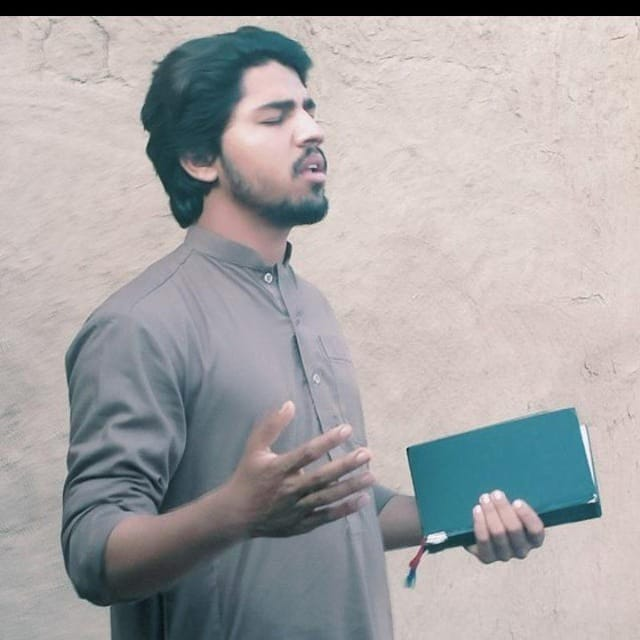
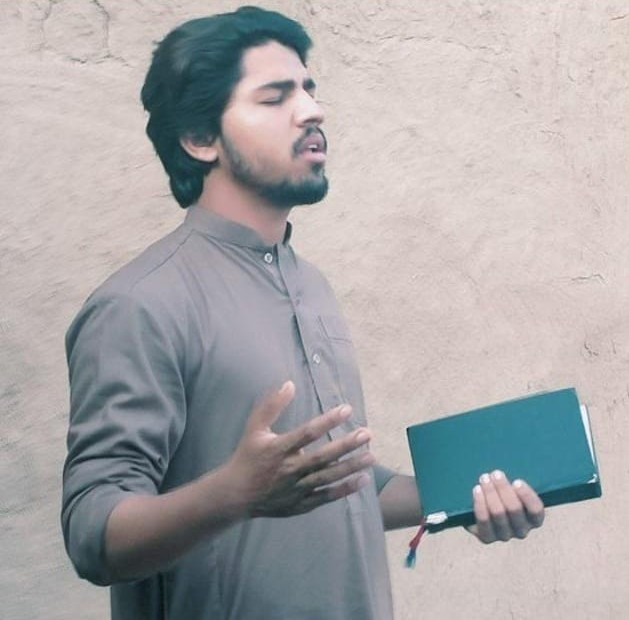
Update project and founder photos

diff --git a/projects/project-page.js b/projects/project-page.js
@@ -9,13 +9,13 @@ const projects={
   'religious-leader-support':{number:'08',title:'Support for Deserving Religious Leader',tagline:'Honouring community service through discreet and practical welfare support.',image:'../assets/projects-5-8.png',position:'100% 100%',intro:'Religious leaders often serve their communities with limited personal income. Where genuine need exists, we provide practical assistance with care and discretion.',body:'Support may include groceries, healthcare assistance and essential household needs. The programme is based on financial need and community service, and assistance is provided without political or sectarian discrimination.',focus:['Monthly grocery assistance','Healthcare support','Essential household needs','Respectful, needs-based assessment'],quote:'Those who support their communities should not be left alone in times of hardship.'}
 };
 const originalProjectPhotos={
-  'brick-kiln-workers':'../assets/photos/field-01.jpg',
+  'brick-kiln-workers':'../assets/project-photos/brick-kiln-workers.jpg',
   'free-medical-camps':'../assets/project-photos/medical-camp.jpg',
   'clean-water':'../assets/project-photos/clean-water.jpg',
   'education-scholarships':'../assets/project-photos/education.jpg',
   'orphans-widows-support':'../assets/project-photos/widows.jpg',
   'women-empowerment':'../assets/photos/field-02.jpg',
-  'marriage-support':'../assets/photos/field-05.jpg',
+  'marriage-support':'../assets/project-photos/marriage-support.jpg',
   'religious-leader-support':'../assets/project-photos/religious-leader.jpg'
 };
 Object.entries(originalProjectPhotos).forEach(([projectKey,image])=>{projects[projectKey].image=image;projects[projectKey].position='center'});

diff --git a/styles.css b/styles.css
@@ -288,11 +288,11 @@ a:focus-visible,button:focus-visible,input:focus-visible{outline:3px solid #ffd5
 .hero{background-image:linear-gradient(90deg,rgba(2,22,38,.84) 0%,rgba(3,30,50,.48) 55%,rgba(3,25,43,.22)),url("assets/photos/field-11.jpg");background-position:center 40%}
 .about:before{background-image:url("assets/photos/field-01.jpg");background-position:center}
 .projects-grid .impact-card{background-size:cover;background-position:center}
-.projects-grid .project-1{background-image:url("assets/photos/field-01.jpg")}
+.projects-grid .project-1{background-image:url("assets/project-photos/brick-kiln-workers.jpg")}
 .projects-grid .project-2{background-image:url("assets/project-photos/medical-camp.jpg")}
 .projects-grid .project-3{background-image:url("assets/project-photos/clean-water.jpg")}
 .projects-grid .project-4{background-image:url("assets/project-photos/education.jpg")}
 .projects-grid .project-5{background-image:url("assets/project-photos/widows.jpg")}
 .projects-grid .project-6{background-image:url("assets/photos/field-02.jpg")}
-.projects-grid .project-7{background-image:url("assets/photos/field-05.jpg")}
+.projects-grid .project-7{background-image:url("assets/project-photos/marriage-support.jpg")}
 .projects-grid .project-8{background-image:url("assets/project-photos/religious-leader.jpg")}
